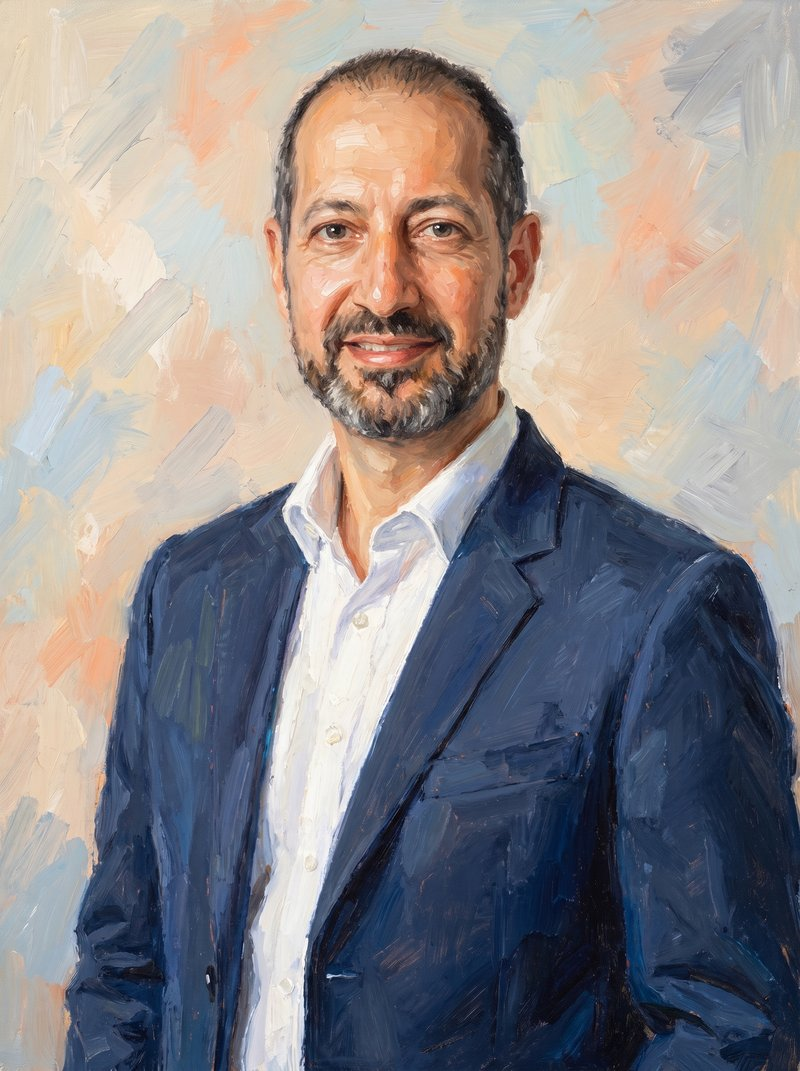
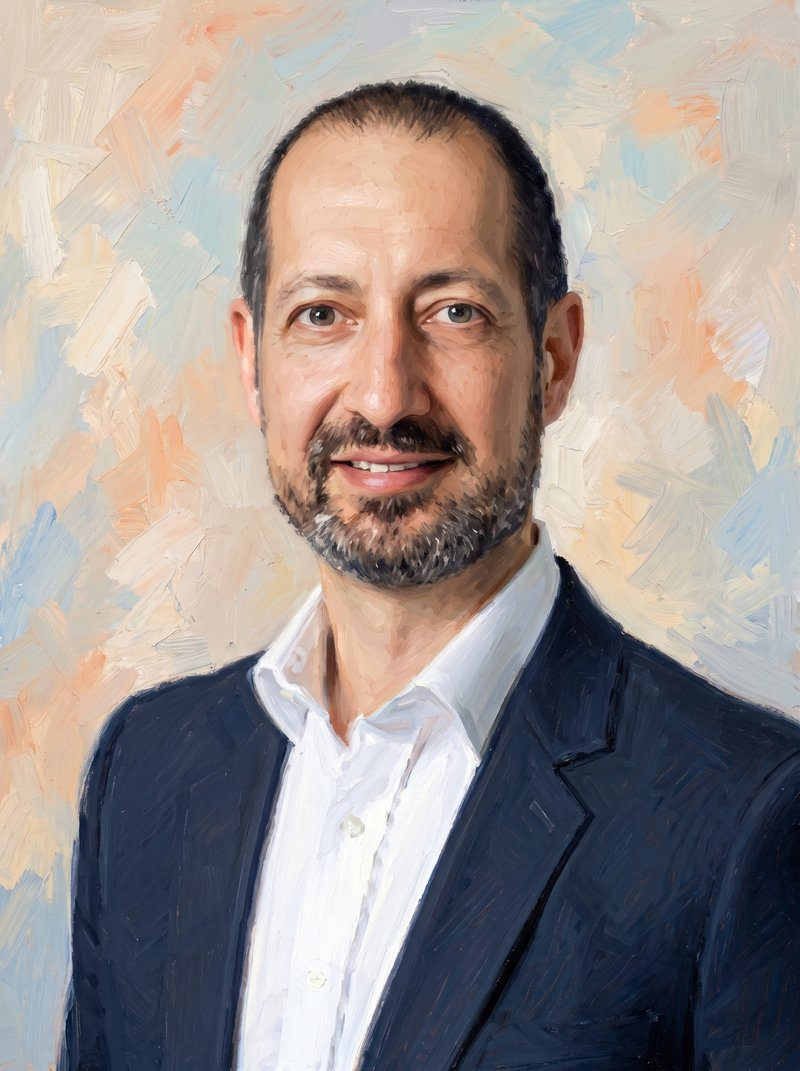
perf(assets): optimize Hani portrait + world map, nudge Singapore marker
- Hani oil portrait 6.8 MB -> 123 KB, world map 1.7 MB -> 142 KB
  (visually identical, web-optimized)
- Singapore map marker +0.2%

diff --git a/index.html b/index.html
@@ -212,7 +212,7 @@
     <div class="hq-marker" style="left:49.8%; top:34.5%;" tabindex="0" aria-label="Zurich headquarters"></div>
     <div class="office-tooltip" style="left:49.8%; top:33.5%;"><strong>Main Office</strong>Basso Global Advisors AG<br>St. Annagasse 9<br>8001 Zurich<br>Switzerland</div>
 
-    <div class="office-marker" style="left:75.8%; top:60%;" tabindex="0" aria-label="Singapore"></div>
+    <div class="office-marker" style="left:76%; top:60%;" tabindex="0" aria-label="Singapore"></div>
     <div class="office-tooltip" style="left:75%; top:60%;"><strong>Partner office</strong>Singapore<br>350 Orchard Road<br>#14-01 Shaw House<br>Singapore 238868</div>
   </div>
 </div>